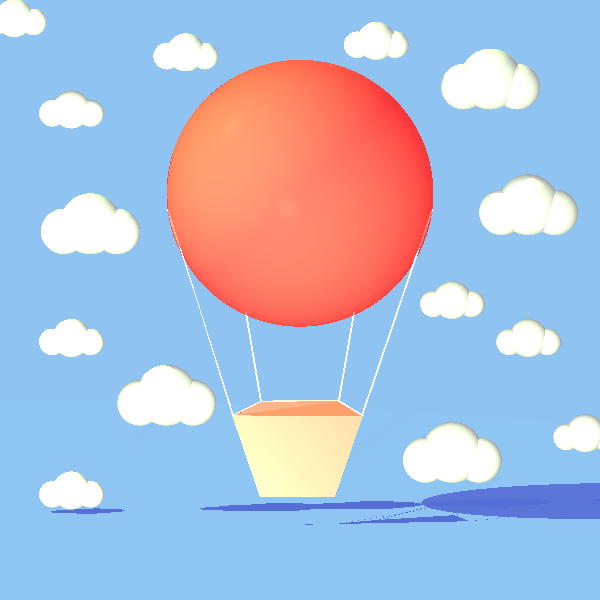
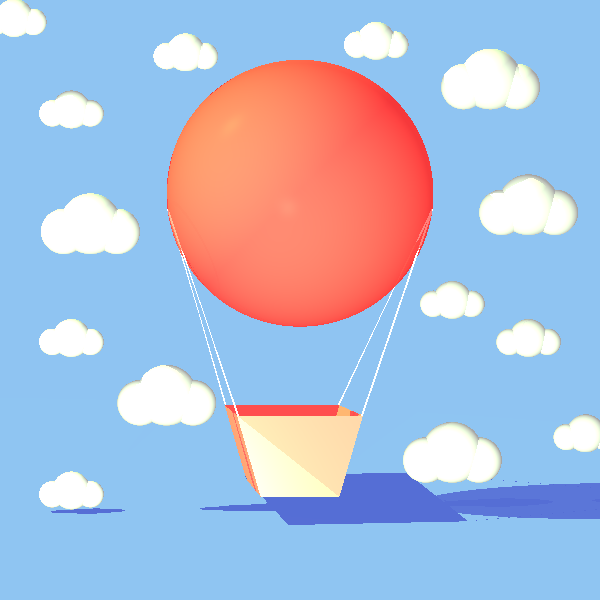
making pic 3d

diff --git a/unitTests/MiniProj1/hotAirBaloon.java b/unitTests/MiniProj1/hotAirBaloon.java
@@ -138,15 +138,15 @@ public class hotAirBaloon {
                 .setVPSize(150, 150)
                 .setVPDistance(1000);
         Scene scene4 = new Scene.SceneBuilder("Test scene").setAmbientLight(new AmbientLight(new Color(WHITE), 0.15)).setBackground(new Color(135, 206, 250)).build();
-        double k = 12; // Scaling factor
+        double k = 1; // Scaling factor
 
-        Point A = new Point(-1.34 * k, 0.74 * k, 0 * k);
+        Point A = new Point(10* k, -50 * k, -16 * k);
 
-        Point B = new Point(-1.34 * k, -1.1 * k, 0 * k);
-        Point C = new Point(-1.34 * k, 1.5 * k, 1.72 * k);
-        Point D = new Point(-1.41 * k, -1.44 * k, 1.72 * k);
-        Point F = new Point(-2.31 * k, 0.85 * k, 2 * k);
-        Point G = new Point(-1.83 * k, -0.85 * k, 2 * k);
+        Point B = new Point(-10 * k, -50 * k, -16 * k);
+        Point C = new Point(16 * k, -29.36 * k, -16 * k);
+        Point D = new Point(-16 * k, -29.36 * k, -16 * k);
+        //Point F = new Point(10.2 * k, -26 * k, -16 * k);
+        //Point G = new Point(-10.2 * k, -26 * k, -16 * k);
         Point sideLeft1 = new Point(-35, 24, -50);
         Point sideLeft2 = new Point(-34.5, 24, -50);
 
@@ -157,47 +157,58 @@ public class hotAirBaloon {
         Point lLittle1 = new Point(-14, -3, -50);
         Point lLittle2 = new Point(-14.5, -3, -50);
 
-        A = new Point(A.getY(), A.getZ() - 50, A.getX());
-        B = new Point(B.getY() + 3, B.getZ() - 50, B.getX());
 
-        C = new Point(C.getY() - 2, C.getZ() - 50, C.getX());
         Point C1 = new Point(C.getX() - 0.5, C.getY(), C.getZ());
         Point C2 = new Point(C.getX(), C.getY(), C.getZ());
         Point CBorderSide = new Point(C.getX()+0.3, C.getY(), C.getZ());
 
 
-        D = new Point(D.getY(), D.getZ() - 50, D.getX());
         Point D1 = new Point(D.getX() + 0.5, D.getY(), D.getZ());
         Point DBorderSide = new Point(D.getX()-0.3, D.getY(), D.getZ());
+        Point ABack=new Point(A.getX()-5,A.getY(),A.getZ()-100);
+        Point BBack=new Point(B.getX()-5,B.getY(),B.getZ()-100);
+        Point CBack=new Point(C.getX()-5,C.getY(),C.getZ()-100);
+        Point DBack=new Point(D.getX()-5,D.getY(),D.getZ()-100);
 
 
-        F = new Point(F.getY(), F.getZ() - 50, F.getX());
-        Point F1 = new Point(F.getX() - 0.5, F.getY(), F.getZ());
-        Point FBorder = new Point(F.getX(), F.getY() + 0.3, F.getZ());
-        Point FBorderSide = new Point(F.getX()+0.3, F.getY(), F.getZ());
+        Point F1 = new Point(CBack.getX() - 0.5, CBack.getY(), CBack.getZ());
+        Point FBorder = new Point(CBack.getX(), CBack.getY() + 0.3, CBack.getZ());
+        Point FBorderSide = new Point(CBack.getX()+0.3, CBack.getY(), CBack.getZ());
 
 
-        G = new Point(G.getY(), G.getZ() - 50, G.getX());
-        Point G1 = new Point(G.getX() + 0.5, G.getY(), G.getZ());
-        Point GBorder = new Point(G.getX(), G.getY() + 0.3, G.getZ());
-        Point GBorderSide = new Point(G.getX()-0.3, G.getY(), G.getZ());
+        Point G1 = new Point(DBack.getX() + 0.5, DBack.getY(), DBack.getZ());
+        Point GBorder = new Point(DBack.getX(), DBack.getY() + 0.3, DBack.getZ());
+        Point GBorderSide = new Point(DBack.getX()-0.3, DBack.getY(),DBack.getZ());
 
+        //BOTTOM
+        Triangle Bottom1=new Triangle(A,B,ABack);
+        Triangle Bottom2=new Triangle(B,BBack,ABack);
 
         //FRONT RIGHT
         Triangle T1 = new Triangle(C, A, D);
+        Triangle T1Back = new Triangle(CBack, ABack, DBack);
+
         //FRONT LEFT
         Triangle T2 = new Triangle(A, D, B);
-        Triangle T3 = new Triangle(C, F, D);
-        Triangle T4 = new Triangle(F, G, D);
+        Triangle T2Back = new Triangle(ABack, DBack, BBack);
+
+        Triangle LeftSideBase1 = new Triangle(A, C, ABack);
+        Triangle LeftSideBase2 = new Triangle(C, CBack, ABack);
+        Triangle RightSideBase1 = new Triangle(B, D, BBack);
+        Triangle RightSideBase2 = new Triangle(D, DBack, BBack);
+
+        Triangle T3 = new Triangle(C, CBack, D);
+
+        Triangle T4 = new Triangle(CBack, DBack, D);
 
         Triangle L1 = new Triangle(sideLeft1, sideLeft2, D1);
         Triangle L2 = new Triangle(D1, D, sideLeft2);
         Triangle R1 = new Triangle(right1, right2, C2);
         Triangle R2 = new Triangle(C1, right2, C2);
-        Triangle rLittle1T = new Triangle(F, F1, rLittle1);
-        Triangle rLittle2T = new Triangle(rLittle2, F1, rLittle1);
-        Triangle lLittle1T = new Triangle(lLittle1, lLittle2, G1);
-        Triangle lLittle2T = new Triangle(G, G1, lLittle2);
+        Triangle rLittle1T = new Triangle(CBack, F1, right2);
+        Triangle rLittle2T = new Triangle(right1, F1, right2);
+        Triangle lLittle1T = new Triangle(sideLeft1, sideLeft2, G1);
+        Triangle lLittle2T = new Triangle(DBack, G1, sideLeft2);
 
         Triangle borderR1 = new Triangle(CBorderSide, C1, FBorderSide);
         Triangle borderR2 = new Triangle(F1, C1, FBorderSide);
@@ -205,8 +216,8 @@ public class hotAirBaloon {
         Triangle borderL1 = new Triangle(GBorderSide, G1, D1);
         Triangle borderL2 = new Triangle(GBorderSide, DBorderSide, D1);
 
-        Triangle borderBack1 = new Triangle(G, GBorder, F);
-        Triangle borderBack2 = new Triangle(F, FBorder, GBorder);
+        Triangle borderBack1 = new Triangle(DBack, GBorder, CBack);
+        Triangle borderBack2 = new Triangle(DBack, FBorder, GBorder);
 
 
         /////////////////////////////////////////////////////////////////
@@ -216,12 +227,28 @@ public class hotAirBaloon {
 
         scene4.geometries.add( //
                 //basket
+                //bottom
+                Bottom1.setMaterial(new Material().setkD(0.5).setkS(0.3).setnShininess(100)).setEmission(new Color(500, 40, 40)), //
+                Bottom2.setMaterial(new Material().setkD(0.5).setkS(1.4).setnShininess(100)).setEmission(new Color(520, 40, 40)), //
+
                 //front
                 T1.setMaterial(new Material().setkD(0.5).setkS(0.3).setnShininess(100)).setEmission(new Color(500, 40, 40)), //
                 T2.setMaterial(new Material().setkD(0.5).setkS(1.4).setnShininess(100)).setEmission(new Color(520, 40, 40)), //
+                //back
+                T1Back.setMaterial(new Material().setkD(0.5).setkS(0.3).setnShininess(100)).setEmission(new Color(500, 40, 40)), //
+                T2Back.setMaterial(new Material().setkD(0.5).setkS(1.4).setnShininess(100)).setEmission(new Color(520, 40, 40)), //
+
+                //Left side
+                LeftSideBase1.setMaterial(new Material().setkD(0.5).setkS(0.3).setnShininess(100)).setEmission(new Color(500, 40, 40)), //
+                LeftSideBase2.setMaterial(new Material().setkD(0.5).setkS(1.4).setnShininess(100)).setEmission(new Color(520, 40, 40)), //
+
+                //Right side
+                RightSideBase1.setMaterial(new Material().setkD(0.5).setkS(0.3).setnShininess(100)).setEmission(new Color(500, 40, 40)), //
+                RightSideBase2.setMaterial(new Material().setkD(0.5).setkS(1.4).setnShininess(100)).setEmission(new Color(520, 40, 40)), //
+
                 //top
-                T3.setMaterial(new Material().setkD(0.5).setkS(0.5).setnShininess(100)).setEmission(new Color(550, 20, 30)), //
-                T4.setMaterial(new Material().setkD(0.5).setkS(0.5).setnShininess(1000)).setEmission(new Color(500, 20, 30)),
+                //T3.setMaterial(new Material().setkD(0.5).setkS(0.5).setnShininess(100)).setEmission(new Color(550, 20, 30)), //
+                //T4.setMaterial(new Material().setkD(0.5).setkS(0.5).setnShininess(1000)).setEmission(new Color(500, 20, 30)),
 
                 //for long lines between balloon and basket
                 L1.setMaterial(new Material().setkD(0.5).setkS(0.5).setnShininess(100)).setEmission(new Color(WHITE)),
@@ -230,13 +257,16 @@ public class hotAirBaloon {
                 R2.setMaterial(new Material().setkD(0.5).setkS(0.5).setnShininess(100)).setEmission(new Color(WHITE)),
 
                 //back border for basket
+                /*
                 borderR1.setMaterial(new Material().setkD(2.9).setkS(0.5).setnShininess(100)).setEmission(new Color(255, 255, 100)), //
                 borderR2.setMaterial(new Material().setkD(2.9).setkS(0.5).setnShininess(100)).setEmission(new Color(255, 255, 100)), //
                 borderL1.setMaterial(new Material().setkD(0.9).setkS(0.5).setnShininess(100)).setEmission(new Color(255, 255, 100)), //
                 borderL2.setMaterial(new Material().setkD(0.9).setkS(0.5).setnShininess(100)).setEmission(new Color(255,255,100)), //
                 borderBack1.setMaterial(new Material().setkD(0.9).setkS(0.5).setnShininess(100)).setEmission(new Color(500, 20, 30)), //
                 borderBack2.setMaterial(new Material().setkD(0.9).setkS(0.5).setnShininess(100)).setEmission(new Color(500, 20, 30)), //
+                */
                 //for small lines between baloon and basket
+
                 rLittle1T.setMaterial(new Material().setkD(0.5).setkS(0.5).setnShininess(100)).setEmission(new Color(WHITE)),
                 rLittle2T.setMaterial(new Material().setkD(0.5).setkS(0.5).setnShininess(100)).setEmission(new Color(WHITE)),
                 lLittle1T.setMaterial(new Material().setkD(0.5).setkS(0.5).setnShininess(100)).setEmission(new Color(WHITE)),

diff --git a/src/primitives/Vector.java b/src/primitives/Vector.java
@@ -68,6 +68,7 @@ public class Vector extends Point {
     public Vector crossProduct(Vector u) {
         if ((xyz.d1 / u.xyz.d1 == xyz.d2 / u.xyz.d2) && (xyz.d1 / u.xyz.d1 == xyz.d2 / u.xyz.d2))
             //return crossProduct(new Vector(u.xyz.d1+1,u.xyz.d2,u.xyz.d3));
+           // return new Vector(-xyz.d2,xyz.d1,xyz.d3);
             throw new IllegalArgumentException("for parallel vectors ");
 
         return new Vector(xyz.d2 * u.xyz.d3 - xyz.d3 * u.xyz.d2, xyz.d3 * u.xyz.d1 - xyz.d1 * u.xyz.d3, xyz.d1 * u.xyz.d2 - xyz.d2 * u.xyz.d1);

diff --git a/src/geometries/Plane.java b/src/geometries/Plane.java
@@ -55,6 +55,7 @@ public class Plane extends Geometry {
         Vector v2 = x.subtract(z);
 
         normal = v1.crossProduct(v2);
+
     }
 
     //---------------------------override functions-------------------------
